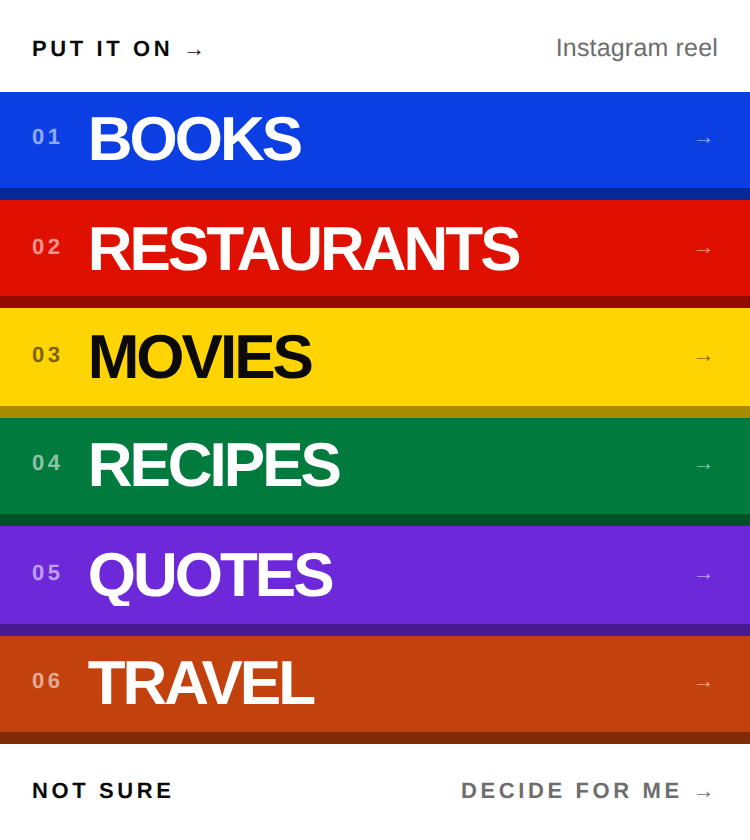
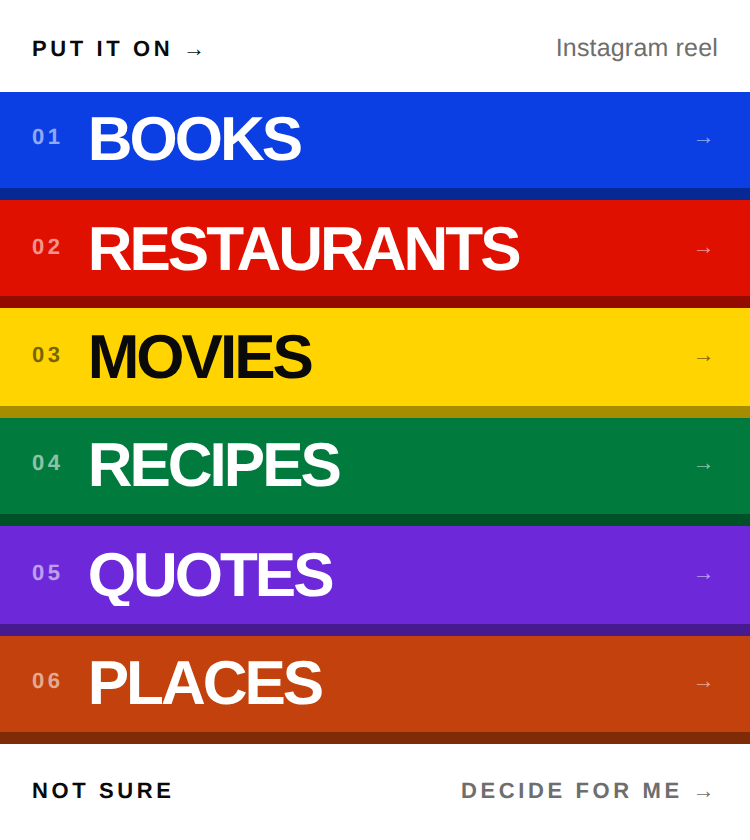
Map buttons were dead on iOS, and travel is now places
THE MAPS. `geo:` is an ANDROID URI scheme. iOS does not handle it, so
Linking.openURL did nothing at all — silently, no error, no bounce — on
every Map button in the app. Restaurants and "Find on map" were the same
bug: one server building one URL for two platforms that do not agree
about what a map link is.

So the server keeps storing the facts — a name, a city, coordinates — and
the DEVICE builds the link, because only the device knows what it can
open. iOS gets maps.apple.com (on the pin, with the name on it), Android
keeps geo: so it opens whichever map app you actually use, and anything
else — the public /s/ page, opened on a laptop — gets an https maps URL,
where a geo: link is simply dead.

facts.js has claimed "a node selftest checks it" since the day it was
written and had none. It does now, and the first thing it asserts is that
iOS is never handed a geo: URI.

TRAVEL → PLACES. A rename is a data problem, not a find-and-replace: every
item already on the phone says list "travel", and an unknown shelf key
does not error, it falls through normList to "unsorted". Shipping the
rename alone would have quietly emptied the shelf into the pile and looked
exactly like data loss. store.ts migrates on read; the server aliases the
old name for good, because a phone on the previous build keeps sending it
and every already-published snapshot still carries it.

AND THE REASON THE SHARE SHEET STILL SHOWS FOUR SHELVES. expo-share-
[…]

Changed region(s): [[0.1227, 0.7738, 0.4293, 0.8357]]

diff --git a/api/classify.js b/api/classify.js
@@ -12,7 +12,7 @@
 import { isMain } from "./ismain.js";
 import { readFile } from "node:fs/promises";
 
-export const LISTS = ["books", "restaurants", "movies", "recipes", "quotes", "travel"];
+export const LISTS = ["books", "restaurants", "movies", "recipes", "quotes", "places"];
 
 // Opus 5 by default. Sonnet 5 is a drop-in via SHELF_MODEL if this ever runs
 // hot enough to care — a per-share extraction is a few thousand tokens, so at
@@ -57,7 +57,7 @@ const SCHEMA = {
   },
 };
 
-const SYSTEM = `You extract saveable things from social media captions for a personal shelf app with six lists: books, restaurants, movies, recipes, quotes, travel.
+const SYSTEM = `You extract saveable things from social media captions for a personal shelf app with six lists: books, restaurants, movies, recipes, quotes, places.
 
 Return the thing itself, never the post about it. "POV: you finally read the book everyone's talking about 📚 Piranesi by Susanna Clarke" is one item titled "Piranesi", not "POV: you finally read...".
 
@@ -69,11 +69,11 @@ Never invent an author, year, or address that the caption does not support. An e
 
 QUOTES. The thing being saved is THE WORDS THEMSELVES. Put the quote in "title", verbatim — the person's actual sentence, not a summary of it and not a label for it. Strip surrounding quotation marks, hashtags, and the "follow for more" tail; keep the wording, the punctuation and the line breaks inside it exactly as written. Put whoever said it in "subtitle" and in search_hints.author. If the caption does not say who said it, leave both empty rather than guessing — a misattributed quote is worse than an unattributed one. A quote with no attribution is still a perfectly good quote.
 
-TRAVEL. ONE ITEM PER PLACE, not one per reel. "10 things to do in Lisbon" is ten items, each titled with the individual place — the restaurant, the viewpoint, the neighbourhood, the shop — and NOT one item called "Lisbon". Put the city or area in search_hints.city on every one of them, because that is what turns a name into a point on a map. If the reel names a city with no specific places in it, that is one item titled with the city. A place with a name you cannot make out is better dropped than saved as "amazing rooftop bar".
+PLACES. ONE ITEM PER PLACE, not one per reel. "10 things to do in Lisbon" is ten items, each titled with the individual place — the restaurant, the viewpoint, the neighbourhood, the shop — and NOT one item called "Lisbon". Put the city or area in search_hints.city on every one of them, because that is what turns a name into a point on a map. If the reel names a city with no specific places in it, that is one item titled with the city. A place with a name you cannot make out is better dropped than saved as "amazing rooftop bar".
 
 TAGGED ACCOUNTS. Captions very often list things by TAGGING them instead of naming them: "10 lovely bookshops with cafes … Bookshops featured: @backstory.london @funnyweatherbooks @the_bookelephant". Those accounts ARE the list — three items, not one item called "10 lovely bookshops". The handle is the only name you get, so read it as one: @backstory.london is "Backstory", @funnyweatherbooks is "Funny Weather", @the_bookelephant is "The Book Elephant". BUILD THE NAME OUT OF THE LETTERS IN THE HANDLE AND NOTHING ELSE. Split it into words, drop a trailing city, country, "official", "hq" or "shop", and stop: @bookbaruk is "Book Bar", not "Book Bar UK". Do not add a word the handle does not contain, and do not reach for a similar place you happen to know — an exact short name is worth more than a fuller guess, because the map is searched with what you write here. Put the city from the caption in search_hints.city on every one of them — that is what turns a name into a place. Ignore the poster's own account and any account that is plainly a photographer credit, a friend, or a brand doing a giveaway. If a handle yields no plausible name, drop it: an item called "@xyz_92" is worse than nine items instead of ten.
 
-RESTAURANTS vs TRAVEL: a place you would eat at, at home, is a restaurant. A place you would go to on a trip — including its restaurants — is travel. When the caption is about a trip, prefer travel.`;
+RESTAURANTS vs PLACES: somewhere you would eat, at home, is a restaurant. Somewhere you would go on a trip — including its restaurants — is a place. When the caption is about travelling, prefer places.`;
 
 // The user's tap wins. Stated separately from SYSTEM so it is impossible to
 // accidentally drop when the prompt is edited.
@@ -219,7 +219,7 @@ if (isMain(import.meta.url) && process.argv.includes("--selftest")) {
   const tagged = buildPrompt({
     caption: "10 lovely bookshops in London\n\nBookshops featured:\n@backstory.london @the_bookelephant",
     authorHandle: "whatshotblog",
-  }, "travel");
+  }, "places");
   ok(tagged.includes("@backstory.london"), "the handles reach the model as caption text");
   ok(!/=\s*$|Accounts tagged in the caption/.test(tagged),
      "no empty roster of resolved names — that section fed the model a blank every time");

diff --git a/app/src/facts.js b/app/src/facts.js
@@ -18,9 +18,53 @@ const isNum = (v) => typeof v === "number" && Number.isFinite(v);
 const list = (v) => (Array.isArray(v) ? v.filter(Boolean) : []);
 
 /**
+ * A MAP LINK THE PHONE WILL ACTUALLY OPEN.
+ *
+ * `geo:` is an ANDROID scheme. iOS does not handle it, so every Map button in
+ * this app opened nothing on an iPhone — silently, because `Linking.openURL`
+ * on an unhandled scheme just fails. Reported as "map button on the
+ * restaurants is not working", and it was broken on travel too: one server
+ * built one URL for two platforms that do not agree about what a map link is.
+ *
+ * So the SERVER stores the facts — a name, a city, coordinates — and the
+ * DEVICE builds the link, because only the device knows what it can open.
+ * `canonical.map_url` is left alone and no longer read; it is the Android form
+ * and this returns it verbatim on Android.
+ *
+ * The third case is not a phone at all: the public `/s/<code>` page is opened
+ * on anything, and a `geo:` link in a browser is a dead link. That gets a
+ * plain https maps URL, which works everywhere including as a fallback.
+ */
+export function mapUrl(item, platform) {
+  const c = (item && item.canonical) || {};
+  const name = (item && item.title) || "";
+  const q = [name, c.city].filter(Boolean).join(", ");
+  const pinned = isNum(c.lat) && isNum(c.lng);
+  if (!q && !pinned) return null;
+  const label = encodeURIComponent(name || q);
+
+  // Apple Maps opens on the pin AND keeps the name on it, which is why both
+  // parameters go in rather than just the coordinates.
+  if (platform === "ios") {
+    return pinned
+      ? `https://maps.apple.com/?ll=${c.lat},${c.lng}&q=${label}`
+      : `https://maps.apple.com/?q=${encodeURIComponent(q)}`;
+  }
+  // geo: is right here, and deliberately not a Google Maps URL: it opens
+  // whichever map app the person actually uses.
+  if (platform === "android") {
+    return pinned ? `geo:${c.lat},${c.lng}?q=${label}` : `geo:0,0?q=${encodeURIComponent(q)}`;
+  }
+  return pinned
+    ? `https://www.google.com/maps/search/?api=1&query=${c.lat},${c.lng}`
+    : `https://www.google.com/maps/search/?api=1&query=${encodeURIComponent(q)}`;
+}
+
+/**
  * @returns {{lede: string|null, rows: Array<{label:string,value:string}>, links: Array<{label:string,url:string}>}}
  */
-export function factsFor(item) {
+export function factsFor(item, opts) {
+  const platform = (opts && opts.platform) || null;
   const c = (item && item.canonical) || {};
   const rows = [];
   const links = [];
@@ -54,7 +98,7 @@ export function factsFor(item) {
     row("Address", c.address);
     row("Open", c.opening_hours);
     row("Serves", list(c.cuisine).join(" · "));
-    link("Map", c.map_url);
+    link("Map", mapUrl(item, platform));
     link("Website", c.website);
     link("Call", c.phone ? `tel:${String(c.phone).replace(/\s+/g, "")}` : null);
   } else if (item?.list === "quotes") {
@@ -64,7 +108,7 @@ export function factsFor(item) {
     // on one screen.
     row("Said by", c.author);
     row("From", c.source);
-  } else if (item?.list === "travel") {
+  } else if (item?.list === "places") {
     row("Where", [c.area, c.city].filter((v, i, a) => v && a.indexOf(v) === i).join(" · "));
     row("Address", c.address);
     row("Open", c.opening_hours);
@@ -72,7 +116,7 @@ export function factsFor(item) {
     // ON it; an unlocated one opens a search that should find it. Labelling
     // both "Map" would make the second one feel broken the first time it lands
     // you somewhere approximate.
-    link(c.located === false ? "Find on map" : "Map", c.map_url);
+    link(c.located === false ? "Find on map" : "Map", mapUrl(item, platform));
     link("Website", c.website);
   } else if (item?.list === "recipes") {
     row("Takes", c.total_time);

diff --git a/api/enrich/index.js b/api/enrich/index.js
@@ -325,7 +325,7 @@ async function googlePlace(key, title, city) {
   return pickPlace(j?.places?.[0]);
 }
 
-export async function enrichPlace({ title, search_hints }, homeCity) {
+export async function enrichRestaurant({ title, search_hints }, homeCity) {
   // The city matters twice: it disambiguates ("Ganapati" exists in several
   // cities) and it is part of the cache key, so the same name in two cities is
   // two questions rather than one wrong answer reused.
@@ -338,7 +338,7 @@ export async function enrichPlace({ title, search_hints }, homeCity) {
   // account, every restaurant filed with no address whatsoever.
   return cached("place", cacheKey(["place", title, city, gkey ? "g" : "osm"]), async () => {
     const osm = await osmPlace(title, city).catch(() => null);
-    // Same guard as travel: a restaurant that geocodes to a different
+    // Same guard as places: a restaurant that geocodes to a different
     // restaurant with a similar name is the worst row this app can produce.
     if (osm && nameFound(title, osm.title)) return osm;
     if (gkey) {
@@ -349,7 +349,7 @@ export async function enrichPlace({ title, search_hints }, homeCity) {
   });
 }
 
-// ── travel: a name on a map ──────────────────────────────────────────────────
+// ── places: a name on a map ──────────────────────────────────────────────────
 
 /**
  * A place you could actually navigate to.
@@ -409,9 +409,9 @@ export function searchMapUrl(title, city) {
   return `geo:0,0?q=${encodeURIComponent(q)}`;
 }
 
-export async function enrichTravel({ title, search_hints }, homeCity) {
+export async function enrichPlace({ title, search_hints }, homeCity) {
   const city = search_hints?.city || homeCity || "";
-  return cached("travel", cacheKey(["travel", title, city]), async () => {
+  return cached("places", cacheKey(["places", title, city]), async () => {
     const found = await osmPlace(title, city).catch(() => null);
     // A match whose name is not ours is a different place, and a wrong pin is
     // worse than no pin: it is confident, navigable, and silent. Fall through
@@ -538,8 +538,8 @@ export async function enrich(item, { outboundUrls = [], homeCity = null } = {}) 
   try {
     if (item.list === "books") got = await enrichBook(item);
     else if (item.list === "movies") got = await enrichMovie(item);
-    else if (item.list === "restaurants") got = await enrichPlace(item, homeCity);
-    else if (item.list === "travel") got = await enrichTravel(item, homeCity);
+    else if (item.list === "restaurants") got = await enrichRestaurant(item, homeCity);
+    else if (item.list === "places") got = await enrichPlace(item, homeCity);
     else if (item.list === "recipes") got = await enrichRecipe(item, outboundUrls);
     // Quotes deliberately fall through: see above. The item Claude read IS the
     // finished item, and `enriched: false` on a quote is not a shortfall.

diff --git a/api/page.js b/api/page.js
@@ -20,7 +20,7 @@ import { plateSvg, plateColours, plateFor } from "../app/src/exlibris.js";
 
 // DERIVED, never restated. This was a hand-written object with four entries in
 // it, and it stayed at four when quotes and travel shipped — so a published
-// travel place rendered under the heading "Unsorted", on the one surface built
+// place rendered under the heading "Unsorted", on the one surface built
 // for handing to somebody who does not have the app. A list of lists written
 // out by hand is a list that will be wrong the next time a shelf is added.
 //
@@ -54,7 +54,7 @@ export const esc = (s) => String(s ?? "").replace(/[&<>"']/g, (c) =>
   ({ "&": "&amp;", "<": "&lt;", ">": "&gt;", '"': "&quot;", "'": "&#39;" }[c]));
 
 /**
- * "books, restaurants and travel" — the shelves that actually have something on
+ * "books, restaurants and places" — the shelves that actually have something on
  * them, in shelf order, as English. The hardcoded version of this sentence
  * described four lists on a card that might be four quotes and a bookshop.
  */
@@ -394,7 +394,7 @@ if (isMain(import.meta.url)) {
     const longQuote = "a".repeat(40) + " " + "b".repeat(40) + " " + "c".repeat(40) + " " + "d".repeat(40);
     const q = renderItem({ owner, item: { id: "q", list: "quotes", title: longQuote, subtitle: "Someone" } });
     ok(q.includes("…"), "a long quote on a jacket must say that it is cut");
-    ok(listSentence({ books: items, travel: items }) === "books and travel", "the card describes the shelves it actually has");
+    ok(listSentence({ books: items, places: items }) === "books and places", "the card describes the shelves it actually has");
     ok(listSentence({}) === "nothing yet", "an empty card does not claim shelves");
     // BOTH configurations, because the selftest runs in both, and an assertion
     // that only holds in one is a test that fails on a laptop and passes on

diff --git a/app/src/store.ts b/app/src/store.ts
@@ -82,10 +82,43 @@ export async function load(): Promise<Shelf> {
     const raw = await FileSystem.readAsStringAsync(FILE);
     const parsed = JSON.parse(raw) as Shelf;
     if (!parsed || typeof parsed !== "object" || !Array.isArray(parsed.items)) return emptyShelf();
-    return { ...emptyShelf(), ...parsed };
+    return migrate({ ...emptyShelf(), ...parsed });
   } catch {
     return emptyShelf();
   }
+}
+
+/**
+ * RENAMES ARE A DATA PROBLEM, not a find-and-replace.
+ *
+ * The travel shelf became "places". Everything already saved on this phone
+ * says `list: "travel"`, and a shelf key nothing recognises does not error —
+ * it falls through `normList` to "unsorted", so a rename shipped without this
+ * would quietly empty somebody's shelf into the pile and look like data loss.
+ *
+ * Applied on read and written back by the next save, so it costs one pass and
+ * then never runs again. Old names stay here forever: this phone may not have
+ * been opened for a year.
+ */
+const RENAMED: Record<string, string> = { travel: "places" };
+
+export function migrate(shelf: Shelf): Shelf {
+  let touched = false;
+  const items = shelf.items.map((it) => {
+    const to = RENAMED[it.list as string];
+    if (!to) return it;
+    touched = true;
+    return { ...it, list: to };
+  });
+  // The published links carry a shelf name too — a card shared as "travel"
+  // should still say what it was.
+  const links = shelf.links.map((l) => {
+    const to = l.target ? RENAMED[l.target] : null;
+    if (!to) return l;
+    touched = true;
+    return { ...l, target: to };
+  });
+  return touched ? { ...shelf, items, links } : shelf;
 }
 
 export async function save(shelf: Shelf): Promise<void> {

diff --git a/app/src/design.js b/app/src/design.js
@@ -131,7 +131,7 @@ export const light = {
   // the two are not the same gesture at 47pt on the rail, which is the only
   // place colour carries the meaning alone.
   quotes: "#6D28D9",
-  travel: "#C2410C",
+  places: "#C2410C",
   unsorted: "#6E6E6E",
   onList: "#FFFFFF",
 };
@@ -141,7 +141,7 @@ export const light = {
 // label on Movies.
 export const listOn = {
   books: "#FFFFFF", restaurants: "#FFFFFF", movies: "#0A0A0A",
-  recipes: "#FFFFFF", quotes: "#FFFFFF", travel: "#FFFFFF",
+  recipes: "#FFFFFF", quotes: "#FFFFFF", places: "#FFFFFF",
   unsorted: "#FFFFFF",
 };
 
@@ -176,12 +176,12 @@ export const dark = {
   // the two are not the same gesture at 47pt on the rail, which is the only
   // place colour carries the meaning alone.
   quotes: "#6D28D9",
-  travel: "#C2410C",
+  places: "#C2410C",
   unsorted: "#6E6E6E",
   onList: "#FFFFFF",
 };
 
-export const LIST_KEYS = ["books", "restaurants", "movies", "recipes", "quotes", "travel", "unsorted"];
+export const LIST_KEYS = ["books", "restaurants", "movies", "recipes", "quotes", "places", "unsorted"];
 
 // Depth instead of outlines. A hairline border around every surface is the
 // visual equivalent of underlining every sentence: it flattens the hierarchy

diff --git a/app/preview/storeStub.js b/app/preview/storeStub.js
@@ -46,7 +46,7 @@ const SHELVED = {
     "We tell ourselves stories in order to live. We look for the sermon in the suicide, for the social or moral lesson in the murder of five. We interpret what we see, select the most workable of the multiple choices, and we live entirely by the imposition of a narrative line upon disparate images.",
   ],
   // A trip is one reel and many places — the whole point of one item per place.
-  travel: ["Miradouro da Senhora do Monte", "Time Out Market", "Belém", "A Cevicheria", "Praia da Ursa"],
+  places: ["Miradouro da Senhora do Monte", "Time Out Market", "Belém", "A Cevicheria", "Praia da Ursa"],
 };
 
 const QUOTE_BY = {
@@ -82,7 +82,7 @@ const mk = (list, title, i) => {
   const perList =
     list === "quotes"
       ? { subtitle: QUOTE_BY[title] ?? "", canonical: { author: QUOTE_BY[title] ?? null } }
-      : list === "travel"
+      : list === "places"
         ? { subtitle: [TRAVEL[title]?.area, TRAVEL[title]?.city].filter(Boolean).join(" · ") || "Lisbon",
             canonical: TRAVEL[title] ?? { city: "Lisbon", located: false, map_url: `geo:0,0?q=${encodeURIComponent(title)}` } }
         : {};

diff --git a/app/App.tsx b/app/App.tsx
@@ -74,7 +74,7 @@ type Route = "case" | "add" | "profile";
  * is often where the attribution lives.
  */
 // deliberate subset — only these two shelves keep the caption.
-const KEEPS_CAPTION = new Set(["travel", "quotes"]);
+const KEEPS_CAPTION = new Set(["places", "quotes"]);
 const keepCaption = (it: { list?: string; caption?: string }) =>
   KEEPS_CAPTION.has(it.list ?? "") ? (it.caption || "").slice(0, 4000) : undefined;
 type Sharing = { kind: "item" | "shelf" | "profile"; item?: Item; list?: string; title: string };
@@ -916,7 +916,10 @@ function Detail({ item, onClose, onAct, onShare, dark, s, c }: {
 function Facts({ item, on, fill, s }: {
   item: Item; on: string; fill: string; s: ReturnType<typeof styles>;
 }) {
-  const { lede, rows, links } = factsFor(item);
+  // The platform decides what a map link looks like — see mapUrl() in facts.js.
+  // Passed in rather than read there because facts.js has no imports on
+  // purpose: the server renders the same rows into the public page.
+  const { lede, rows, links } = factsFor(item, { platform: Platform.OS });
   if (!lede && !rows.length && !links.length) return null;
 
   return (

diff --git a/api/http.js b/api/http.js
@@ -39,6 +39,17 @@ export function appKeyOk(req) {
   return diff === 0;
 }
 
-export const LISTS = ["books", "restaurants", "movies", "recipes", "quotes", "travel"];
+export const LISTS = ["books", "restaurants", "movies", "recipes", "quotes", "places"];
 export const ALL_LISTS = [...LISTS, "unsorted"];
-export const normList = (l) => (ALL_LISTS.includes(l) ? l : "unsorted");
+
+// OLD NAMES NEVER STOP ARRIVING. "travel" became "places", and a phone still
+// running the previous build keeps sending the old word — as does every
+// snapshot already published under it. Without this they fall through to
+// "unsorted", which is not an error anybody sees: the share just lands on the
+// wrong shelf. An alias costs one line and outlives the rename.
+const RENAMED = { travel: "places" };
+
+export const normList = (l) => {
+  const named = RENAMED[l] ?? l;
+  return ALL_LISTS.includes(named) ? named : "unsorted";
+};

diff --git a/app/src/theme.ts b/app/src/theme.ts
@@ -24,11 +24,11 @@ export const lists = {
   movies: { label: "Movies", one: "film", n: "03" },
   recipes: { label: "Recipes", one: "recipe", n: "04" },
   quotes: { label: "Quotes", one: "quote", n: "05" },
-  travel: { label: "Travel", one: "place", n: "06" },
+  places: { label: "Places", one: "place", n: "06" },
   unsorted: { label: "Not shelved", one: "item", n: "00" },
 } as const;
 
-export const LIST_ORDER = ["books", "restaurants", "movies", "recipes", "quotes", "travel"] as const;
+export const LIST_ORDER = ["books", "restaurants", "movies", "recipes", "quotes", "places"] as const;
 
 // Indexed by a string that came off the wire — a share target, a received
 // delivery, a search hit — where the type system cannot know it is one of the

diff --git a/app/src/api.ts b/app/src/api.ts
@@ -25,8 +25,8 @@ const APP_KEY = process.env.EXPO_PUBLIC_SHELF_KEY ?? "";
 export const SHARE_BASE = process.env.EXPO_PUBLIC_SHELF_WEB ?? API_BASE;
 export const shareUrl = (code: string) => `${SHARE_BASE}/s/${code}`;
 
-export type ListName = "books" | "restaurants" | "movies" | "recipes" | "quotes" | "travel" | "unsorted";
-export const LISTS: ListName[] = ["books", "restaurants", "movies", "recipes", "quotes", "travel"];
+export type ListName = "books" | "restaurants" | "movies" | "recipes" | "quotes" | "places" | "unsorted";
+export const LISTS: ListName[] = ["books", "restaurants", "movies", "recipes", "quotes", "places"];
 
 /** What the resolver hands back. The device turns this into a stored Item. */
 export type Resolved = {

diff --git a/app/preview/stubs.js b/app/preview/stubs.js
@@ -4,7 +4,7 @@
 // MUST match src/api.ts. It did not, once: two new lists were added and the
 // rail in every screenshot still showed the old five, which looked like the
 // feature had not been built.
-export const LISTS = ["books", "restaurants", "movies", "recipes", "quotes", "travel"];
+export const LISTS = ["books", "restaurants", "movies", "recipes", "quotes", "places"];
 const wait = (ms) => new Promise((r) => setTimeout(r, ms));
 
 export const API_BASE = "";
